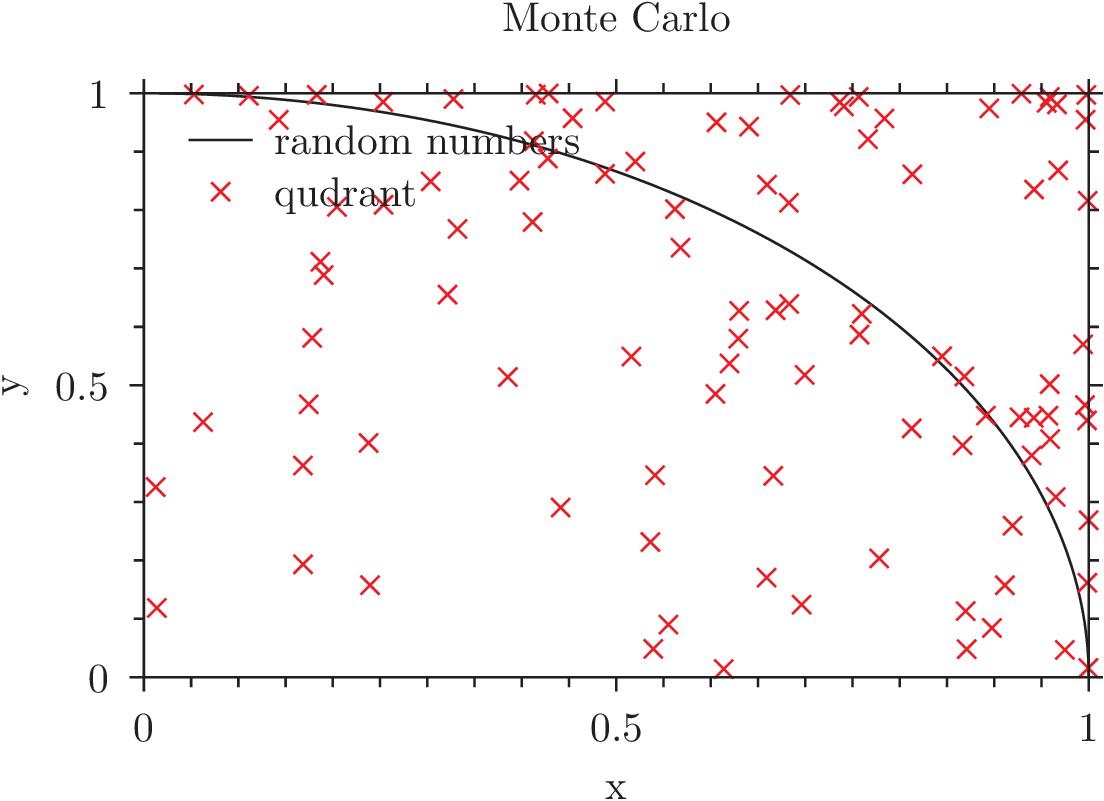
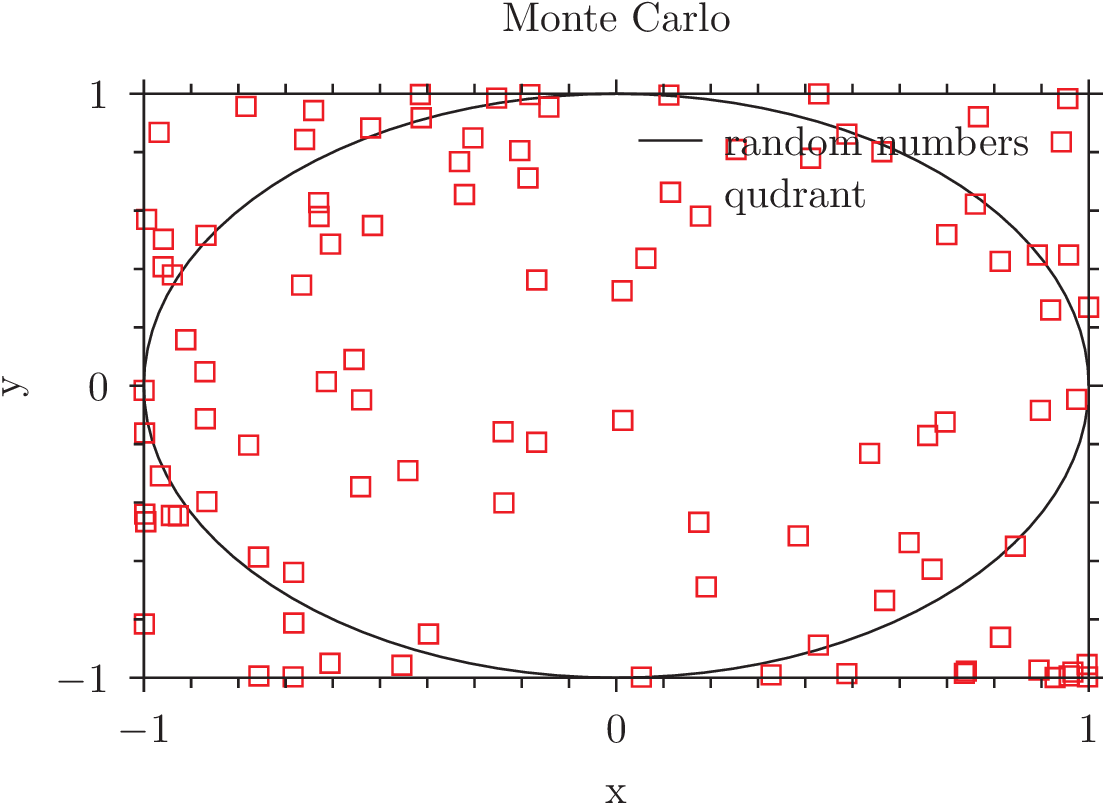
Initial commit

diff --git a/exercises/Muliprocessing/numbers.c b/exercises/Muliprocessing/numbers.c
@@ -11,14 +11,14 @@ int main(){
 	double y[n];
 
 	for (int i=0; i <n; i++){
-		x[i]=fabs(cos(rand()));
+		x[i]=cos(rand());
 	}
 	for (int i=0; i <n; i++){
-		y[i]=fabs(cos(rand()));
+		y[i]=cos(rand());
 	}
 	for (int i=0; i <n; i++){
-		cirkelx[i]=cos(3.14/2*i/n);
-		cirkely[i]=sin(3.14/2*i/n);
+		cirkelx[i]=cos(3.14*2*i/n);
+		cirkely[i]=sin(3.14*2*i/n);
 	}
 
 	for(int i=0; i<n; i++){
